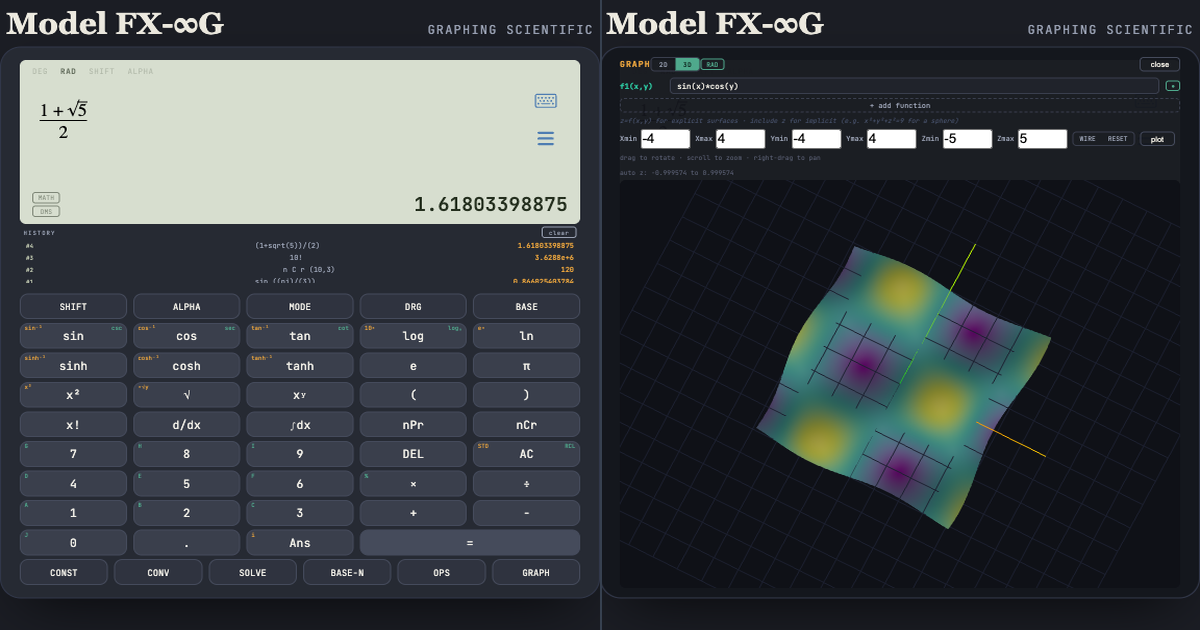
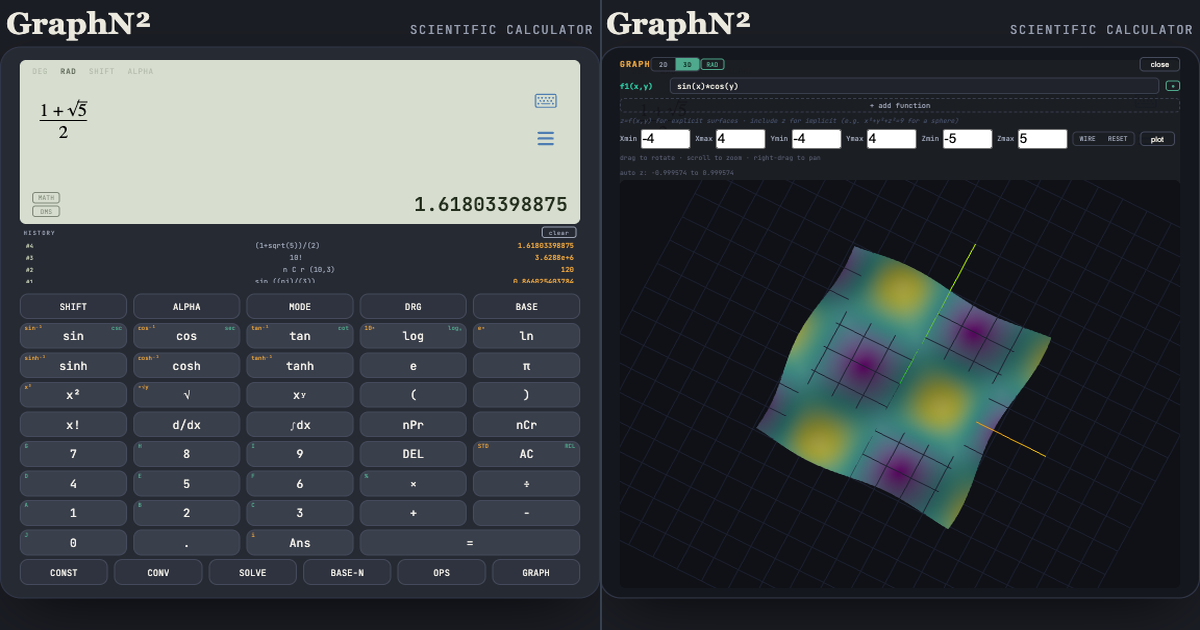
Migrate to Cloudflare Pages at graph.nsquaredcreative.ca

Changed region(s): [[0.3392, 0.0, 0.7092, 0.0603], [0.0, 0.0, 0.185, 0.0603], [0.8325, 0.0302, 0.9867, 0.0603]]

diff --git a/index.html b/index.html
@@ -8,16 +8,16 @@
     <link href="https://fonts.googleapis.com/css2?family=JetBrains+Mono:wght@400;500;700&display=swap" rel="stylesheet" />
     <meta name="viewport" content="width=device-width, initial-scale=1.0" />
     <meta name="robots" content="index, follow, max-snippet:160, max-image-preview:standard, noodp" />
-    <title>Model FX-∞G - scientific calculator</title>
-    <meta name="description" content="Graphing scientific calculator for the browser. Plot 2D and 3D surfaces. Complex numbers, matrices, statistics, calculus, unit conversion, and more." />
+    <title>GraphN² - scientific calculator</title>
+    <meta name="description" content="GraphN² is a browser-based graphing scientific calculator. Plot 2D and 3D surfaces. Complex numbers, matrices, statistics, calculus, unit conversion, and more." />
 
     <!-- Open Graph -->
     <meta property="og:type" content="website" />
-    <meta property="og:site_name" content="Model FX-∞G" />
-    <meta property="og:url" content="https://sreenikh.github.io/scientific-calculator/" />
-    <meta property="og:title" content="Model FX-∞G - scientific calculator" />
-    <meta property="og:description" content="Graphing scientific calculator for the browser. Plot 2D and 3D surfaces. Complex numbers, matrices, statistics, calculus, unit conversion, and more." />
-    <meta property="og:image" content="https://sreenikh.github.io/scientific-calculator/og-image.png" />
+    <meta property="og:site_name" content="GraphN²" />
+    <meta property="og:url" content="https://graph.nsquaredcreative.ca/" />
+    <meta property="og:title" content="GraphN² - scientific calculator" />
+    <meta property="og:description" content="GraphN² is a browser-based graphing scientific calculator. Plot 2D and 3D surfaces. Complex numbers, matrices, statistics, calculus, unit conversion, and more." />
+    <meta property="og:image" content="https://graph.nsquaredcreative.ca/og-image.png" />
     <meta property="og:image:type" content="image/png" />
     <meta property="og:image:width" content="1200" />
     <meta property="og:image:height" content="630" />
@@ -25,9 +25,9 @@
     <!-- Twitter / X card (also used by some Telegram clients) -->
     <meta name="twitter:card" content="summary_large_image" />
     <meta name="twitter:site" content="@sreenikh" />
-    <meta name="twitter:title" content="Model FX-∞G - scientific calculator" />
-    <meta name="twitter:description" content="Graphing scientific calculator for the browser. Plot 2D and 3D surfaces. Complex numbers, matrices, statistics, calculus, unit conversion, and more." />
-    <meta name="twitter:image" content="https://sreenikh.github.io/scientific-calculator/og-image.png" />
+    <meta name="twitter:title" content="GraphN² - scientific calculator" />
+    <meta name="twitter:description" content="GraphN² is a browser-based graphing scientific calculator. Plot 2D and 3D surfaces. Complex numbers, matrices, statistics, calculus, unit conversion, and more." />
+    <meta name="twitter:image" content="https://graph.nsquaredcreative.ca/og-image.png" />
   </head>
   <body>
     <div id="root"></div>

diff --git a/vite.config.js b/vite.config.js
@@ -16,7 +16,7 @@ export default defineConfig({
       sourcemaps: { filesToDeleteAfterUpload: ['dist/**/*.map'] },
     }),
   ].filter(Boolean),
-  base: '/scientific-calculator/',
+  base: '/',
   build: {
     // Source maps are generated only when the Sentry plugin is active (CI with secrets set).
     // The plugin uploads them to Sentry and deletes the .map files before Pages deployment.

diff --git a/src/App.jsx b/src/App.jsx
@@ -242,8 +242,8 @@ export default function App() {
   return (
     <div className="wrap">
       <div className="brand">
-        <h1>Model FX-∞G</h1>
-        <span>Graphing scientific</span>
+        <h1>GraphN²</h1>
+        <span>Scientific calculator</span>
       </div>
 
       <div className="device">

diff --git a/README.md b/README.md
@@ -1,8 +1,8 @@
-# Model FX-∞G
+# GraphN²
 
 A browser-based graphing scientific calculator with textbook-style math input.
 
-**Live:** https://sreenikh.github.io/scientific-calculator/
+**Live:** https://graph.nsquaredcreative.ca
 
 ---
 
@@ -67,13 +67,12 @@ npm test
 
 ## Deployment
 
-The app deploys automatically to GitHub Pages on every push to `main` via `.github/workflows/deploy.yml`.
+The app is hosted on Cloudflare Pages at https://graph.nsquaredcreative.ca. Cloudflare builds and deploys automatically on every push to `main`.
 
 To check a deployment:
-1. Go to the **Actions** tab on GitHub
-2. Click the latest **Deploy to GitHub Pages** run
-3. The **deploy** job shows build output and the live URL once complete
-4. Visit https://sreenikh.github.io/scientific-calculator/ to confirm
+1. Go to the **Actions** tab on GitHub and confirm the CI build passes
+2. Open the Cloudflare Pages dashboard (Workers & Pages > graphn2) to see the deployment status
+3. Visit https://graph.nsquaredcreative.ca to confirm
 
 ---
 

diff --git a/docs/user-manual-quickref.md b/docs/user-manual-quickref.md
@@ -2,7 +2,7 @@
 
 ## Overview
 
-Model FX-∞G is a browser-based scientific calculator with textbook-style math input. Expressions look the way they do on paper - fractions stack vertically, roots draw a vinculum, exponents sit above the baseline - and pressing **=** evaluates them.
+GraphN² is a browser-based scientific calculator with textbook-style math input. Expressions look the way they do on paper - fractions stack vertically, roots draw a vinculum, exponents sit above the baseline - and pressing **=** evaluates them.
 
 The layout scales to fit any window size. Resize the browser freely; font sizes and button heights adjust automatically.
 

diff --git a/docs/phases.md b/docs/phases.md
@@ -241,4 +241,4 @@ Accessed via **MODE -> 5 TABLE**.
 ## Notes
 
 - The test suite (`npm test`) is the merge gate on every PR. New phases add tests before wiring UI.
-- GitHub Pages is live at https://sreenikh.github.io/scientific-calculator/ via `.github/workflows/deploy.yml` on push to `main`.
+- Cloudflare Pages is live at https://graph.nsquaredcreative.ca; Cloudflare builds and deploys on every push to `main`.

diff --git a/docs/user-manual.md b/docs/user-manual.md
@@ -1,7 +1,7 @@
-# Model FX-∞G User Guide
+# GraphN² User Guide
 
 **Browser-based graphing scientific calculator**
-https://sreenikh.github.io/scientific-calculator/
+https://graph.nsquaredcreative.ca
 
 ---
 
